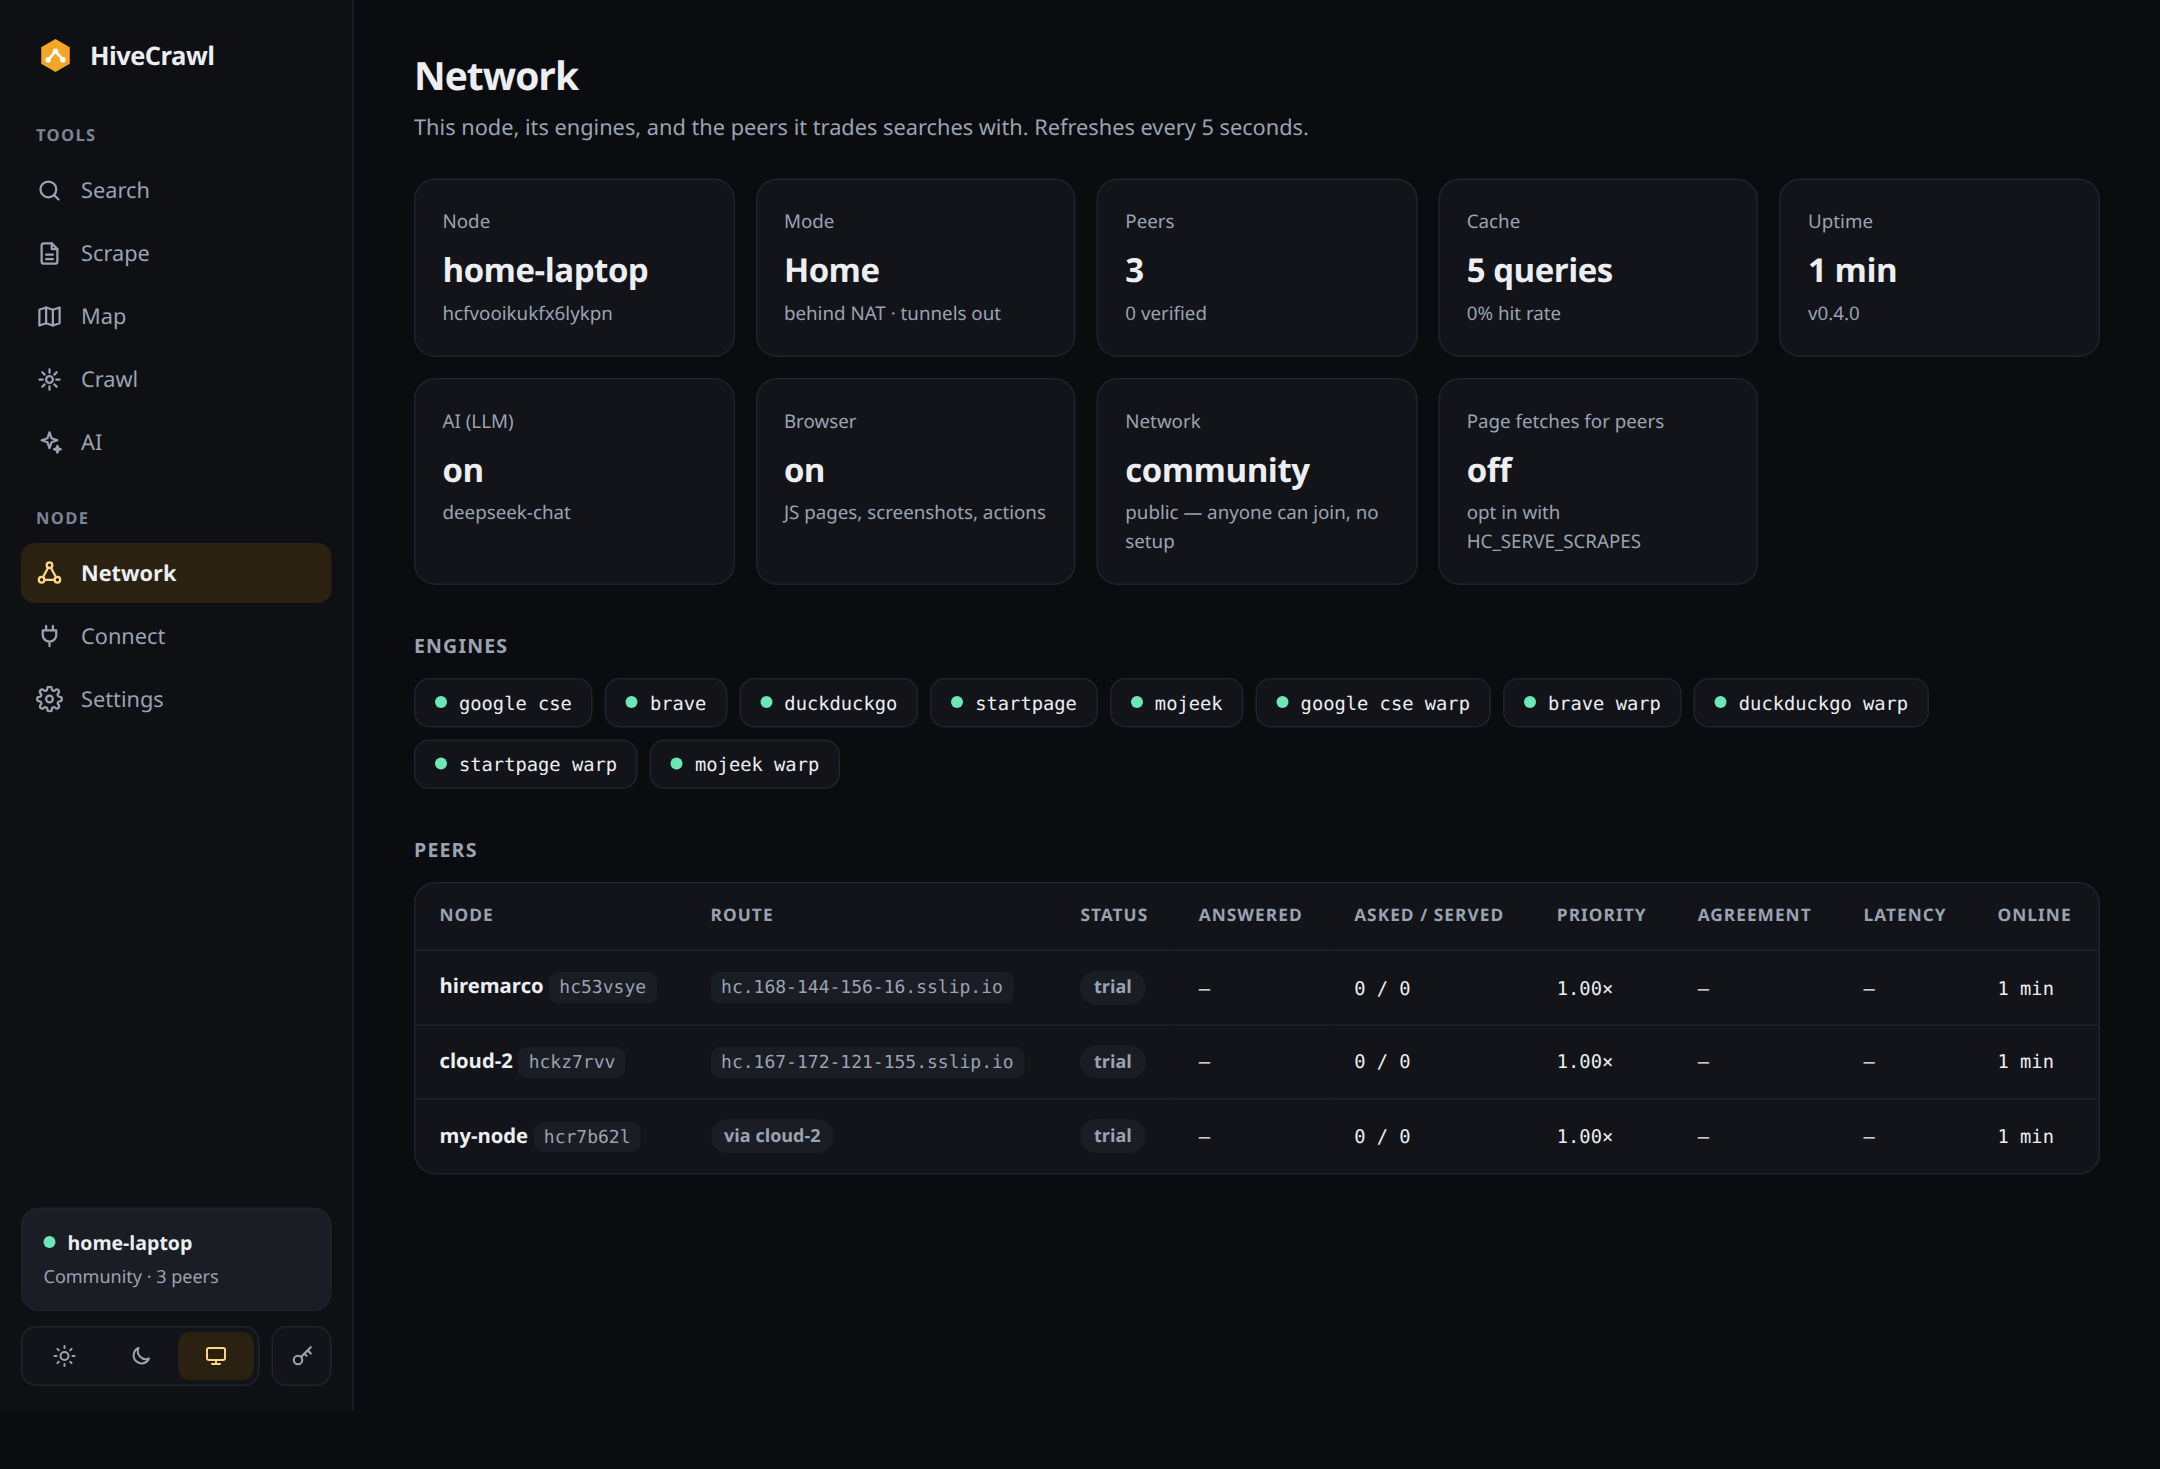
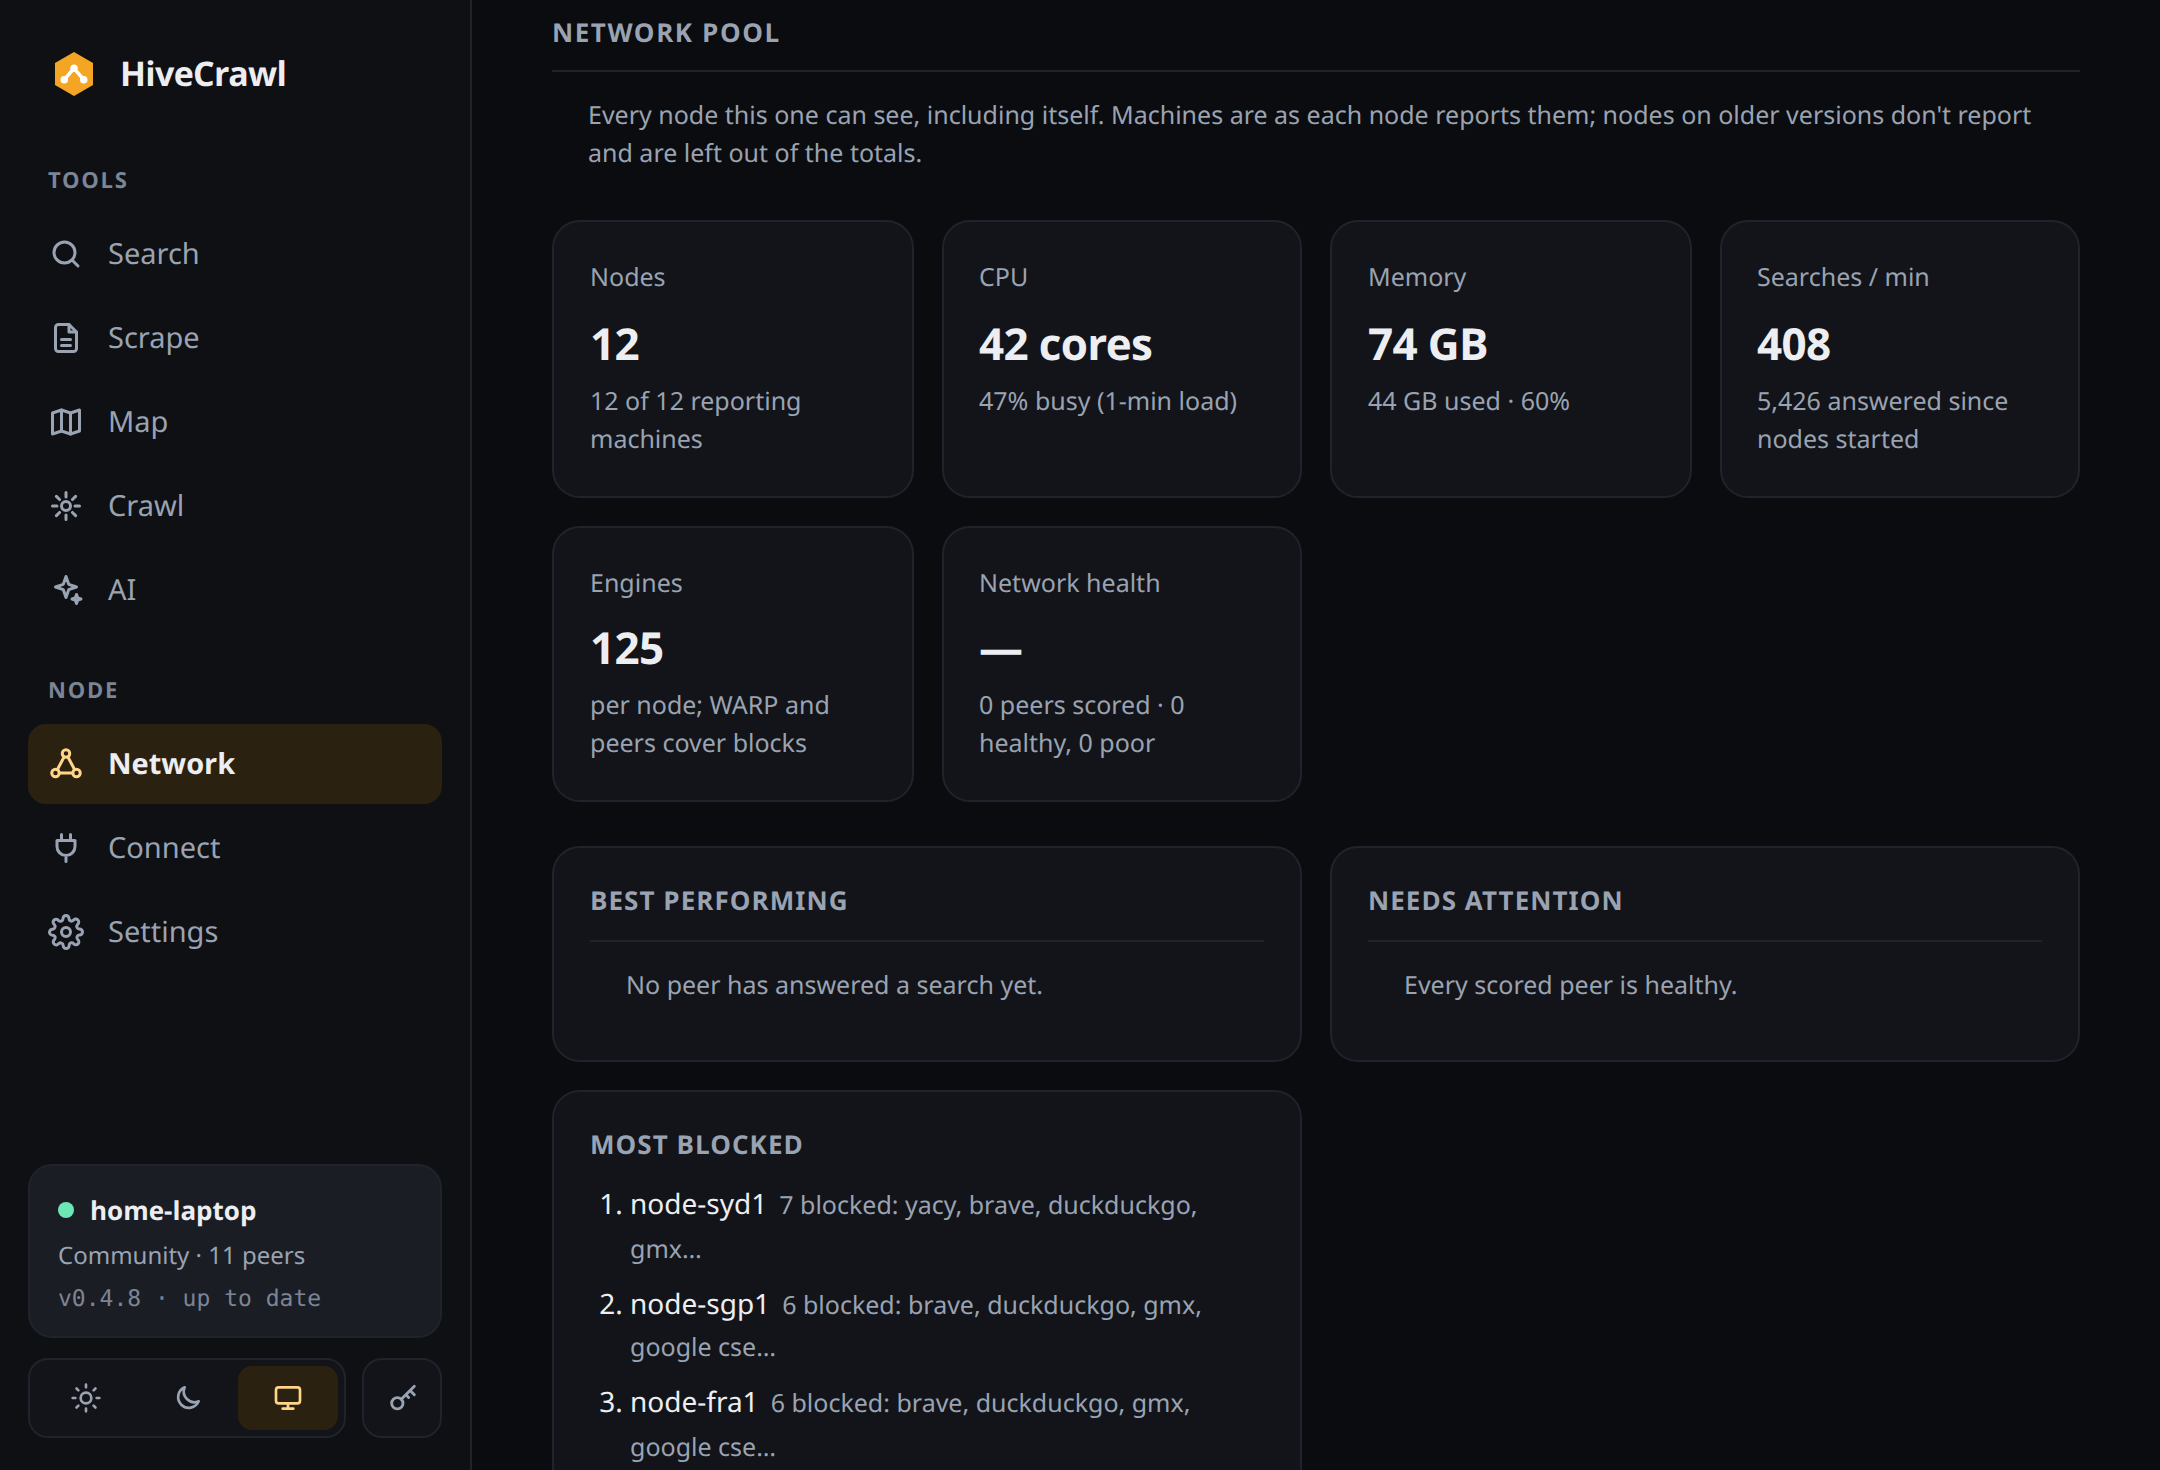
README: describe the engines, categories, insights and network pool
Update the intro, feature tour, architecture and MCP sections for what
0.4.5-0.4.8 added, with new screenshots of a knowledge panel, a research
category search and the network pool (API key masked).

diff --git a/README.md b/README.md
@@ -17,7 +17,9 @@
 <sub>Formerly HiveQuery. Nodes running HiveQuery are on a separate network; update and they rejoin as HiveCrawl.</sub>
 
 HiveCrawl gives you Firecrawl's search, scrape, crawl, map, batch scrape, extract and agent endpoints on your own
-machines — no paid search API, no hosted scraping service. Each node runs [SearXNG](https://github.com/searxng/searxng) for results. When search
+machines — no paid search API, no hosted scraping service. Each node runs [SearXNG](https://github.com/searxng/searxng) with about 125 search
+engines: 12 general web indexes on every search, plus specialist ones for research papers, code, packages, videos,
+books, music and more, picked by `categories` or automatically when a query clearly needs them. When search
 engines block a node (CAPTCHAs, `429 Too Many Requests`), the node retries the blocked engines through
 Cloudflare WARP and through other nodes in the network — including home machines behind a router, whose
 residential IPs get blocked far less — and merges everything into one Firecrawl-shaped response.
@@ -261,7 +263,8 @@ machines, with your queries kept off third-party APIs.
 Every screenshot below is the real UI of a running node, with live results (the API key is masked).
 
 **Search the web, news and images** — blocked engines are retried through WARP and peers, and the result says
-which node and engines answered.
+which node and engines answered. Searches about people, places and things get a knowledge panel, every search
+gets related searches, and results several engines agree on are marked.
 
 <p align="center"><img src="docs/assets/ui/search-web.png" alt="Web search results for kerala monsoon forecast with source, engines and blocked engines shown, and a cURL snippet" width="100%"></p>
 
@@ -269,6 +272,10 @@ which node and engines answered.
 <tr>
 <td width="50%"><img src="docs/assets/ui/search-news.png" alt="News results with publish dates and thumbnails"><br><sub><b>News</b> with dates and thumbnails, filterable by time</sub></td>
 <td width="50%"><img src="docs/assets/ui/search-images.png" alt="Image results in a grid with sizes"><br><sub><b>Images</b> with sizes and source pages</sub></td>
+</tr>
+<tr>
+<td width="50%"><img src="docs/assets/ui/search-insights.png" alt="Search for albert einstein with a Wikipedia knowledge panel and results marked with how many engines found them"><br><sub><b>Knowledge panel</b>, related searches and engine agreement</sub></td>
+<td width="50%"><img src="docs/assets/ui/search-research.png" alt="Research category search returning papers from arXiv, Europe PMC and Crossref"><br><sub><b>Categories</b>: research papers, code, packages, videos, books…</sub></td>
 </tr>
 </table>
 
@@ -290,7 +297,7 @@ pages, mobile view and PDF/DOCX included.
 </tr>
 <tr>
 <td width="50%"><img src="docs/assets/ui/ai-agent.png" alt="AI agent answer with a cited source"><br><sub><b>Agent</b> searches and reads the web, answers with sources</sub></td>
-<td width="50%"><img src="docs/assets/ui/network.png" alt="Network page with peers, routes and node capabilities"><br><sub><b>Network</b>: peers, routes, verification, capabilities</sub></td>
+<td width="50%"><img src="docs/assets/ui/network.png" alt="Network page with pool totals, node rankings and engine groups"><br><sub><b>Network</b>: pool totals, health rankings, engines by group</sub></td>
 </tr>
 <tr>
 <td width="50%"><img src="docs/assets/ui/connect.png" alt="Connect page with MCP and SDK snippets"><br><sub><b>Connect</b>: MCP and SDK snippets with your URL and key</sub></td>
@@ -478,7 +485,7 @@ One node is four containers from `docker-compose.yml`:
 | Container | Role |
 |---|---|
 | `hivecrawl` | The Go node: API, web UI, MCP, cache, orchestrator, mesh, scraper |
-| `searxng` | Meta-search over Google CSE, Brave, DuckDuckGo, Startpage, Mojeek, Wikipedia; each also has a disabled `<engine> warp` copy that goes out through WARP |
+| `searxng` | Meta-search over about 125 engines (`deploy/searxng/settings.yml`): general web (Google CSE, Brave, DuckDuckGo, Yandex, Yahoo, Naver, Mwmbl, YaCy, 360Search, GMX, Fynd, Wikipedia), news and images on every search; specialist engines kept disabled and run by name for `categories` (`internal/node/verticals.go`); disabled `<engine> warp` copies that go out through WARP |
 | `warp` | Registers a free Cloudflare WARP account on first start (`wgcf`) and exposes it as SOCKS5 inside the compose network only (`wireproxy`) |
 | `browser` | Headless Chrome for JavaScript pages, actions and screenshots, on its own network that only the node can reach |
 
@@ -601,7 +608,7 @@ Every node serves a streamable-HTTP MCP server at `/mcp`, protected by the same 
 
 | Tool | What it does |
 |---|---|
-| `hivecrawl_search` | Web search; `scrape: true` also returns each result's main content as markdown |
+| `hivecrawl_search` | Web search; `scrape: true` also returns each result's main content as markdown, `categories` picks specialist engines (research, developer, packages, pdf…), and answers, a knowledge panel and related searches come with the results |
 | `hivecrawl_scrape` | One page as clean markdown with title and metadata (optionally its links) |
 | `hivecrawl_map` | List a site's URLs |
 | `hivecrawl_crawl`, `hivecrawl_crawl_status` | Crawl a site in the background and read the pages |
